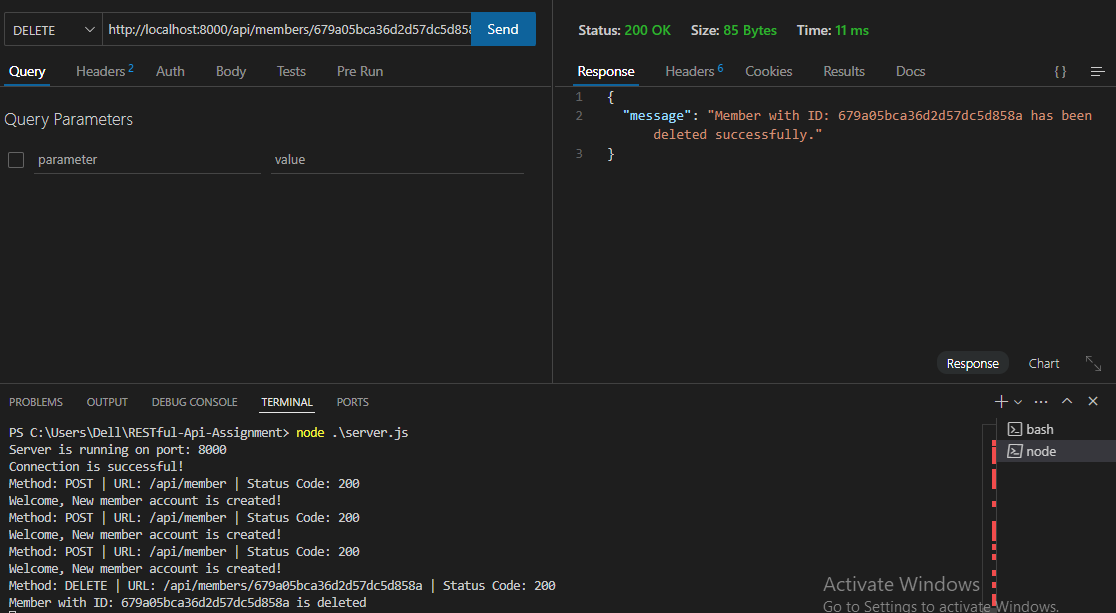
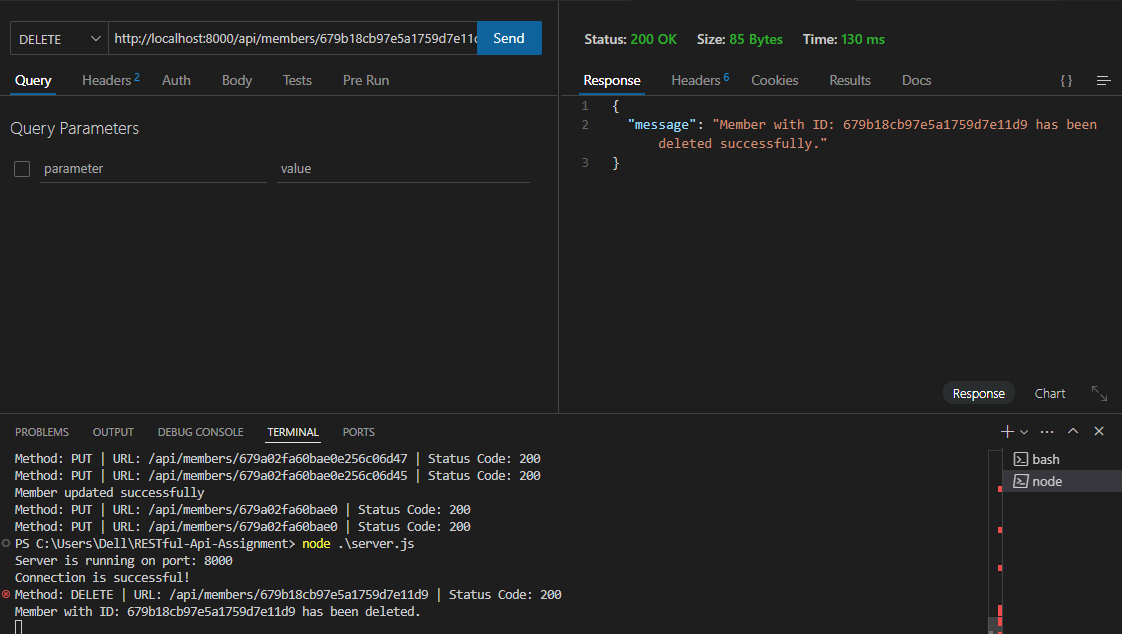
Updated the error and screenshots

diff --git a/Controller/postMember.control.js b/Controller/postMember.control.js
@@ -1,21 +1,29 @@
 import memberModel from '../Model/member.model.js';
 
-export function createMember(req,res){
-    const{Name,Age,Gender,Address,Phone} = req.body;
+export function createMember(req, res) {
+    const { Name, Age, Gender, Address, Phone } = req.body;
+
+    // Validate required fields
+    if (!Name || !Age || !Gender || !Address || !Phone) {
+        return res.status(400).json({ message: "All fields are required." });
+    }
 
     const newMember = new memberModel({
-        Name:Name,
-        Age:Age,
-        Gender:Gender,
-        Address:Address,
-        Phone:Phone
+        Name,
+        Age,
+        Gender,
+        Address,
+        Phone,
     });
 
-    newMember.save().then((data)=>{
-        if(!data){
-            return res.status(400).json({message:"Something went wrong!"});
-        }
-        res.status(201).json(data);
-        console.log("Welcome, New member account is created!");
-    })
+    newMember
+        .save()
+        .then((data) => {
+            res.status(201).json({ message: "New member created successfully.", data });
+            console.log("Welcome, new member account is created!");
+        })
+        .catch((error) => {
+            console.error("Error creating new member:", error.message);
+            res.status(500).json({ message: "Internal Server Error", error: error.message });
+        });
 }

diff --git a/Controller/getIdMember.controller.js b/Controller/getIdMember.controller.js
@@ -3,16 +3,22 @@ import memberModel from "../Model/member.model.js";
 export async function findMember(req, res) {
     try {
         const memberId = req.params.id;
+
+        // Validate if the memberId is a valid MongoDB ObjectId
+        if (!memberId.match(/^[0-9a-fA-F]{24}$/)) {
+            return res.status(400).json({ message: "Invalid ID!" });
+        }
+
         const member = await memberModel.findOne({ _id: memberId });
 
         if (!member) {
-            return res.status(404).json({ message: "Member with this ID doesn't exist." });
+            return res.status(404).json({ message: "The ID does not exist." });
         }
 
         res.status(200).json(member);
-        console.log("Member found : " + member);
+        console.log("Member found: " + member);
     } catch (error) {
-        console.error("Error in finding the member with this id : ", req.params.id);
+        console.error("Error in finding the member with this ID: ", req.params.id, error);
         res.status(500).json({ message: "Internal Server Error", error: error.message });
     }
 }

diff --git a/Controller/deleteMember.controller.js b/Controller/deleteMember.controller.js
@@ -4,14 +4,18 @@ export async function deleteMember(req, res) {
     try {
         const memberId = req.params.id;
 
-        // Find and delete member
-        const deletedMember = await memberModel.deleteOne({_id:memberId});
+        // Validate if the memberId is a valid MongoDB ObjectId
+        if (!memberId.match(/^[0-9a-fA-F]{24}$/)) {
+            return res.status(400).json({ message: "Invalid ID format." });
+        }
 
-        if (!deletedMember) {
+        const deleteResult = await memberModel.deleteOne({ _id: memberId });
+
+        if (!deleteResult) {
             return res.status(404).json({ message: "Member doesn't exist with this ID." });
         }
 
-        console.log(`Member with ID: ${memberId} is deleted`);
+        console.log(`Member with ID: ${memberId} has been deleted.`);
         res.status(200).json({ message: `Member with ID: ${memberId} has been deleted successfully.` });
 
     } catch (error) {

diff --git a/Controller/putMember.controller.js b/Controller/putMember.controller.js
@@ -4,14 +4,18 @@ export async function updateMember(req, res) {
     try {
         const memberId = req.params.id;
 
+        // Validate if the memberId is a valid MongoDB ObjectId
+        if (!memberId.match(/^[0-9a-fA-F]{24}$/)) {
+            return res.status(400).json({ message: "Invalid ID!" });
+        }
+
         const updateResult = await memberModel.updateOne(
-            { _id: memberId },  
-            { $set: req.body }   
+            { _id: memberId },
+            { $set: req.body }
         );
 
-        // Check if the member was updated
-        if (!updateResult.nModified === 0) {
-            return res.status(404).json({ message: "Member doesn't exist or no changes made." });
+        if (!updateResult) {
+            return res.status(404).json({ message: "Member doesn't exist." });
         }
 
         console.log("Member updated successfully");

diff --git a/Controller/getMembers.control.js b/Controller/getMembers.control.js
@@ -3,13 +3,15 @@ import memberModel from '../Model/member.model.js';
 export async function allMembers(req, res) {
     try {
         const data = await memberModel.find();
-        if (!data) {
-            return res.status(404).send({ message: "Not Found!" });
+
+        if (data.length === 0) {
+            return res.status(404).json({ message: "No members found." });
         }
-        res.send(data);
-        console.log("This is the data of all members!");
+
+        res.status(200).json(data);
+        console.log("Successfully fetched all members!");
     } catch (err) {
-        console.error("Error fetching member:", err);
-        res.status(500).json({ message: "Internal server error!" });
+        console.error("Error fetching members:", err.message);
+        res.status(500).json({ message: "Internal Server Error", error: err.message });
     }
 }

diff --git a/server.js b/server.js
@@ -8,7 +8,6 @@ import { deleteRequest } from "./Requests/deleteRequest.js";
 import { putRequest } from "./Requests/putRequest.js";
 import { getRequest } from "./Requests/getRequest.js";
 
-// Initialize express app first
 const app = express();
 app.use(express.json()); 
 
@@ -23,7 +22,7 @@ const db = mongoose.connection;
 db.on("open", () => console.log("Connection is successful!"));
 db.on("error", (error) => console.error("Connection error:", error));
 
-// Attach routes after defining app
+//Routes
 postRequest(app);
 putRequest(app);
 getIdRequest(app);

diff --git a/Requests/getByIdRequest.js b/Requests/getByIdRequest.js
@@ -2,7 +2,7 @@ import '../Middlewares/validateMiddleware.js';
 import '../Middlewares/logMiddleware.js'
 import { findMember } from '../Controller/getIdMember.controller.js';
 
-//Fetch user by Id
+//Fetch member by Id
 export function getIdRequest(app){
     app.get("/api/members/:id",findMember);
 }

diff --git a/Requests/deleteRequest.js b/Requests/deleteRequest.js
@@ -2,6 +2,7 @@ import { deleteMember } from '../Controller/deleteMember.controller.js';
 import '../Middlewares/validateMiddleware.js';
 import '../Middlewares/logMiddleware.js';
 
+//Delete member by Id.
 export function deleteRequest(app){
    app.delete("/api/members/:id",deleteMember);
 }

diff --git a/Requests/postRequest.js b/Requests/postRequest.js
@@ -3,7 +3,7 @@ import {createMember} from "../Controller/postMember.control.js";
 import '../Middlewares/validateMiddleware.js';
 import '../Middlewares/logMiddleware.js'
 
-//Create new user
+//Create new member
 export function postRequest(app){
     app.post("/api/member",createMember);
 }

diff --git a/Requests/putRequest.js b/Requests/putRequest.js
@@ -2,7 +2,7 @@ import { updateMember } from '../Controller/putMember.controller.js';
 import '../Middlewares/validateMiddleware.js';
 import '../Middlewares/logMiddleware.js';
 
-
+//Update the member
 export function putRequest(app){
     app.put("/api/members/:id",updateMember);
 }

diff --git a/Requests/getRequest.js b/Requests/getRequest.js
@@ -1,7 +1,7 @@
 import  {allMembers} from '../Controller/getMembers.control.js'
 import '../Middlewares/logMiddleware.js';
 
-//Fetch all users
+//Fetch all members
 export function getRequest(app){
      app.get("/api/allmembers", allMembers);
 }
